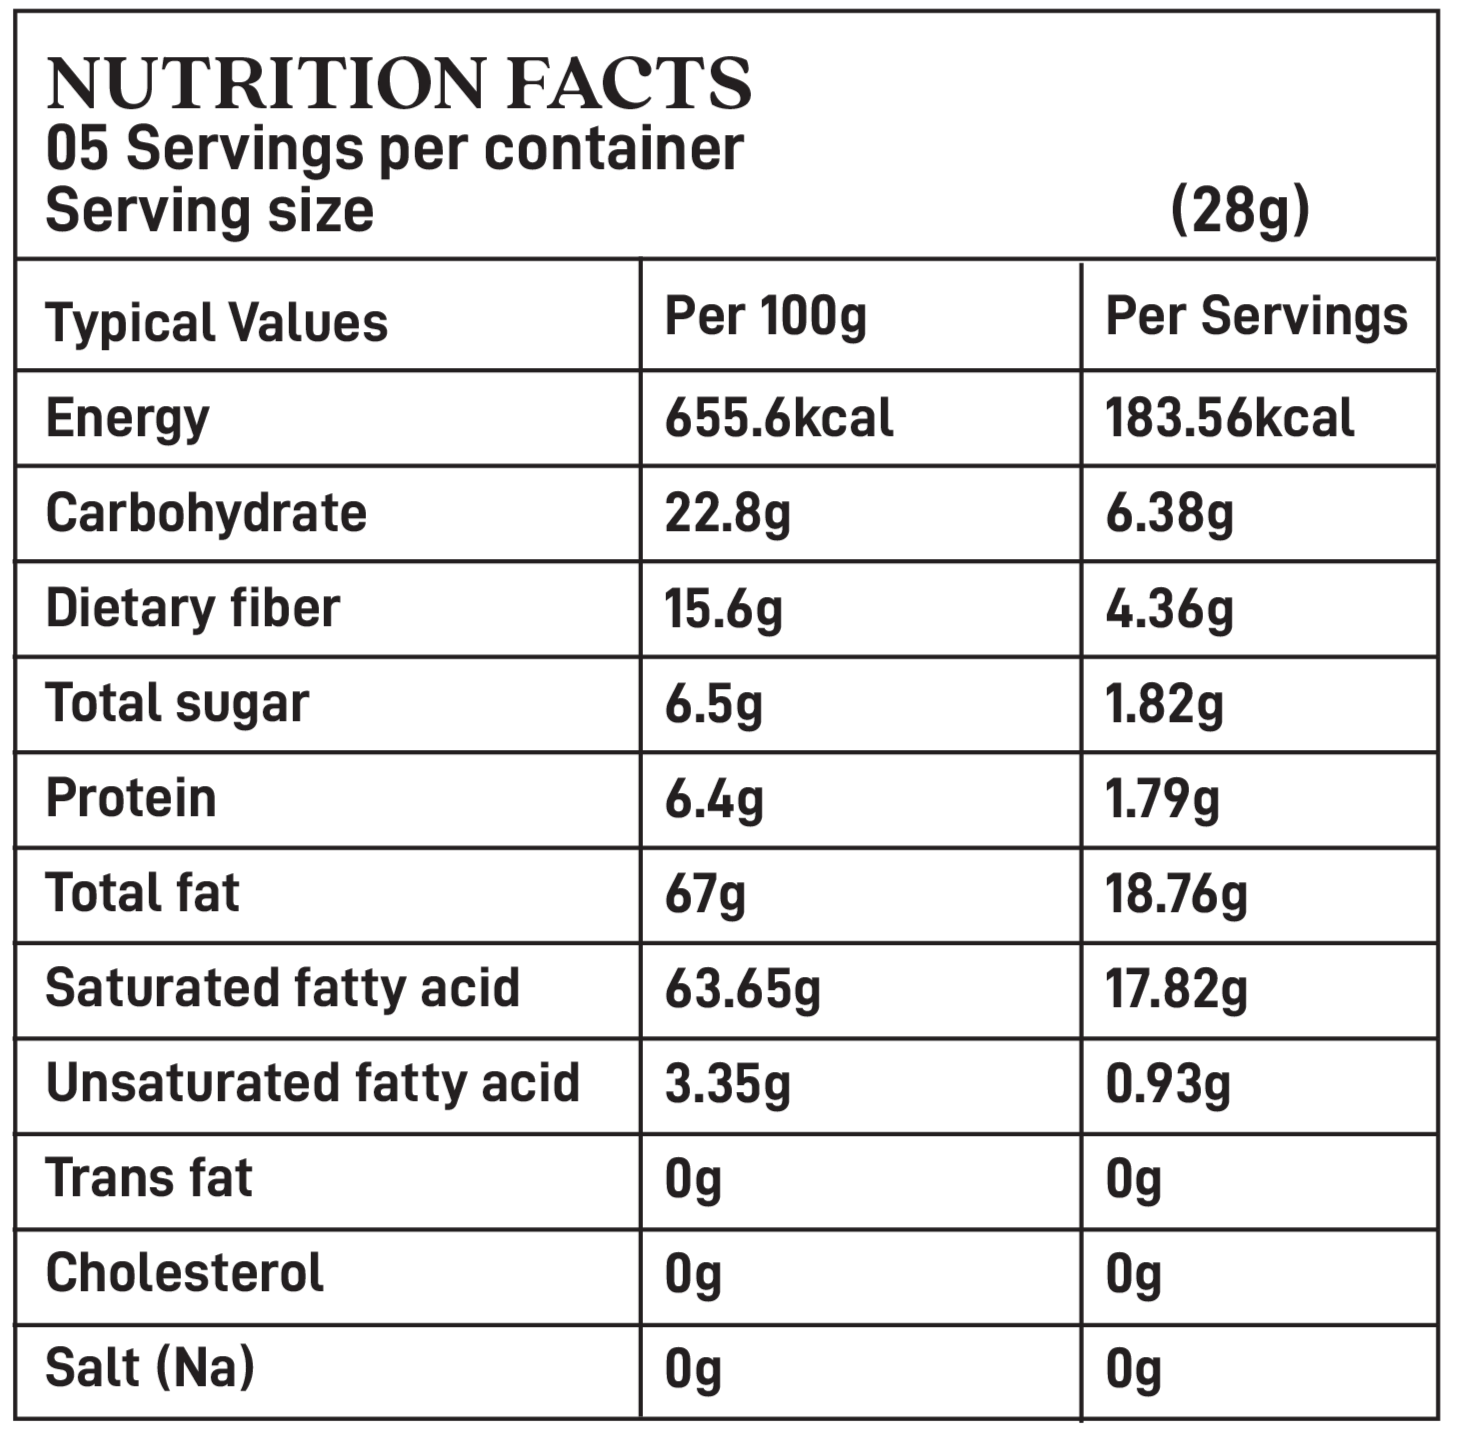
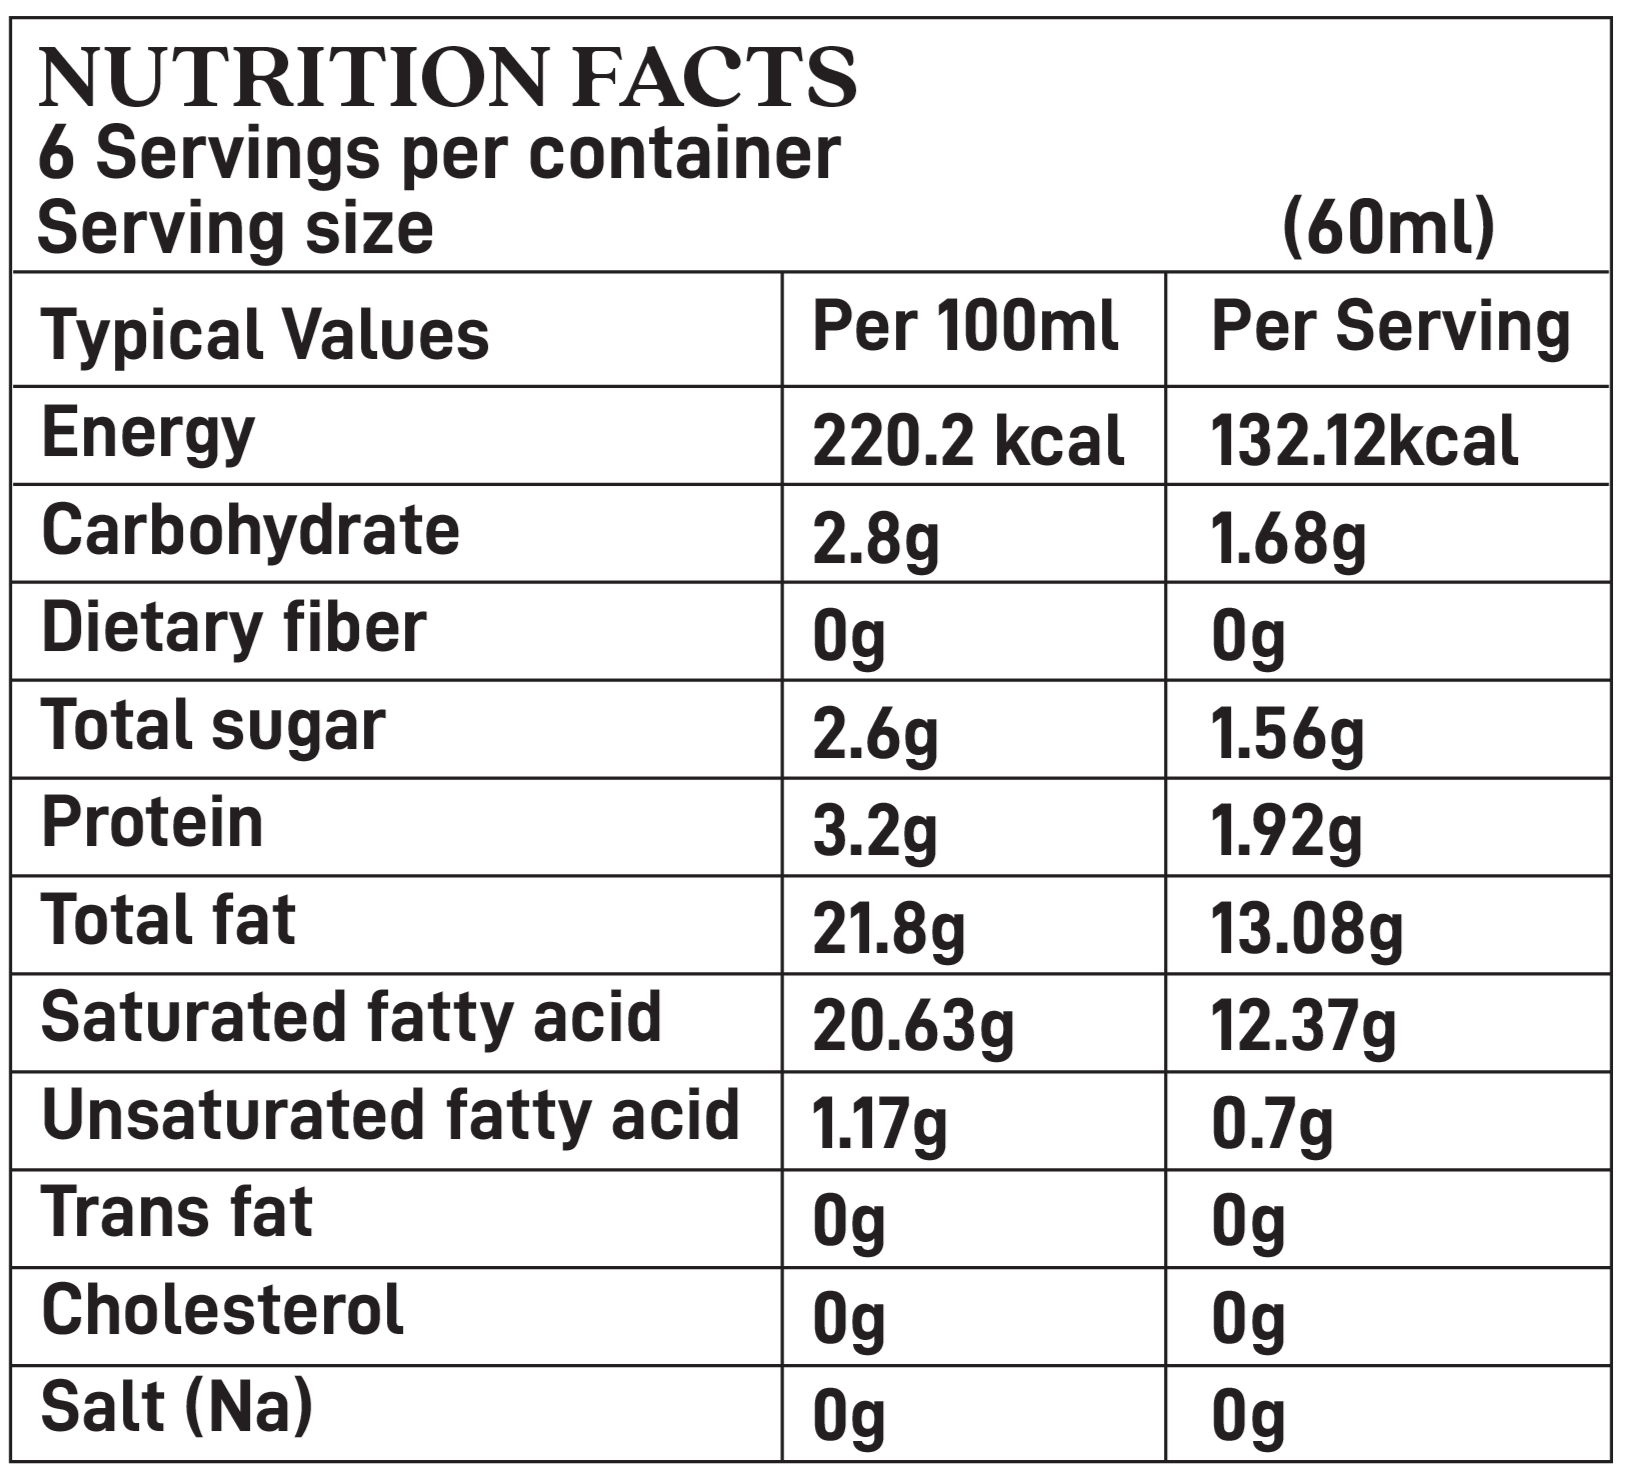
chart changes

Changed region(s): [[0.0, 0.0, 1.0, 1.0]]

diff --git a/src/data/page.ts b/src/data/page.ts
@@ -225,7 +225,7 @@ export const data = {
         color: "white",
       },
     ],
-    nutritionChart: "/images/sweet-chips-nutrition-chart.png",
+    nutritionChart: "/images/toasted-chips-nutrition-chart.png",
     life: "12 Months",
     brandingSubtitle: {
       text: "Snack the Authentic Tropical Way",
@@ -334,7 +334,7 @@ export const data = {
         color: "white",
       },
     ],
-    nutritionChart: "/images/syrup-chart.png",
+    nutritionChart: "/images/flour-chart.png",
     brandingSubtitle: {
       text: "The Authentic Tropical Addition",
       color: "#000",
@@ -550,7 +550,7 @@ export const data = {
       },
       {
         title: "Storage",
-        subTitle: "In a cool dry place, away from direct sunlight.",
+        subTitle: "In a cool dry place, \naway from direct sunlight.",
         color: "white",
       },
       {
